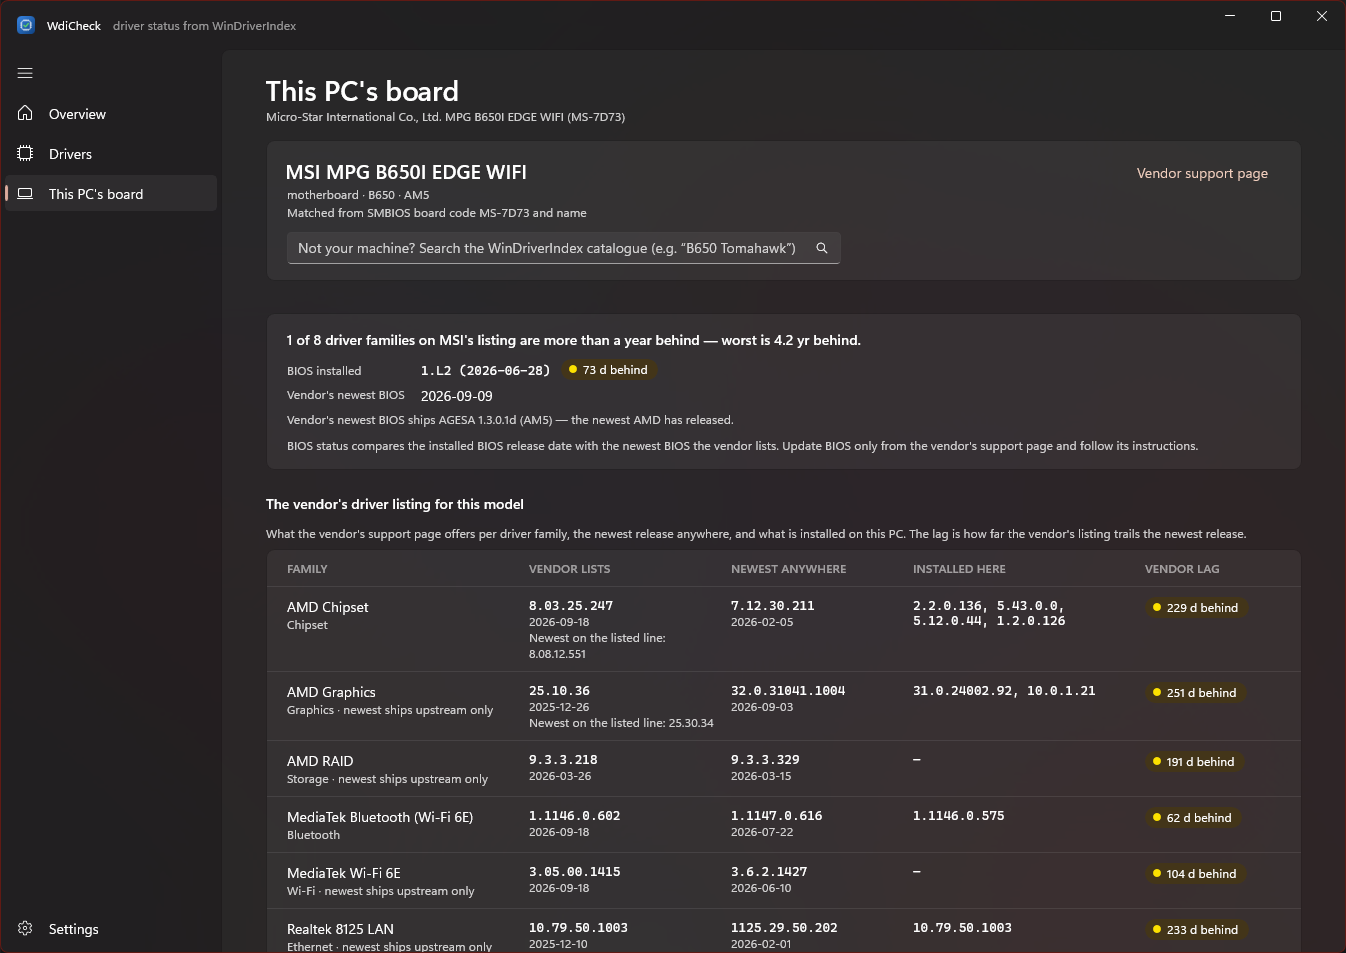
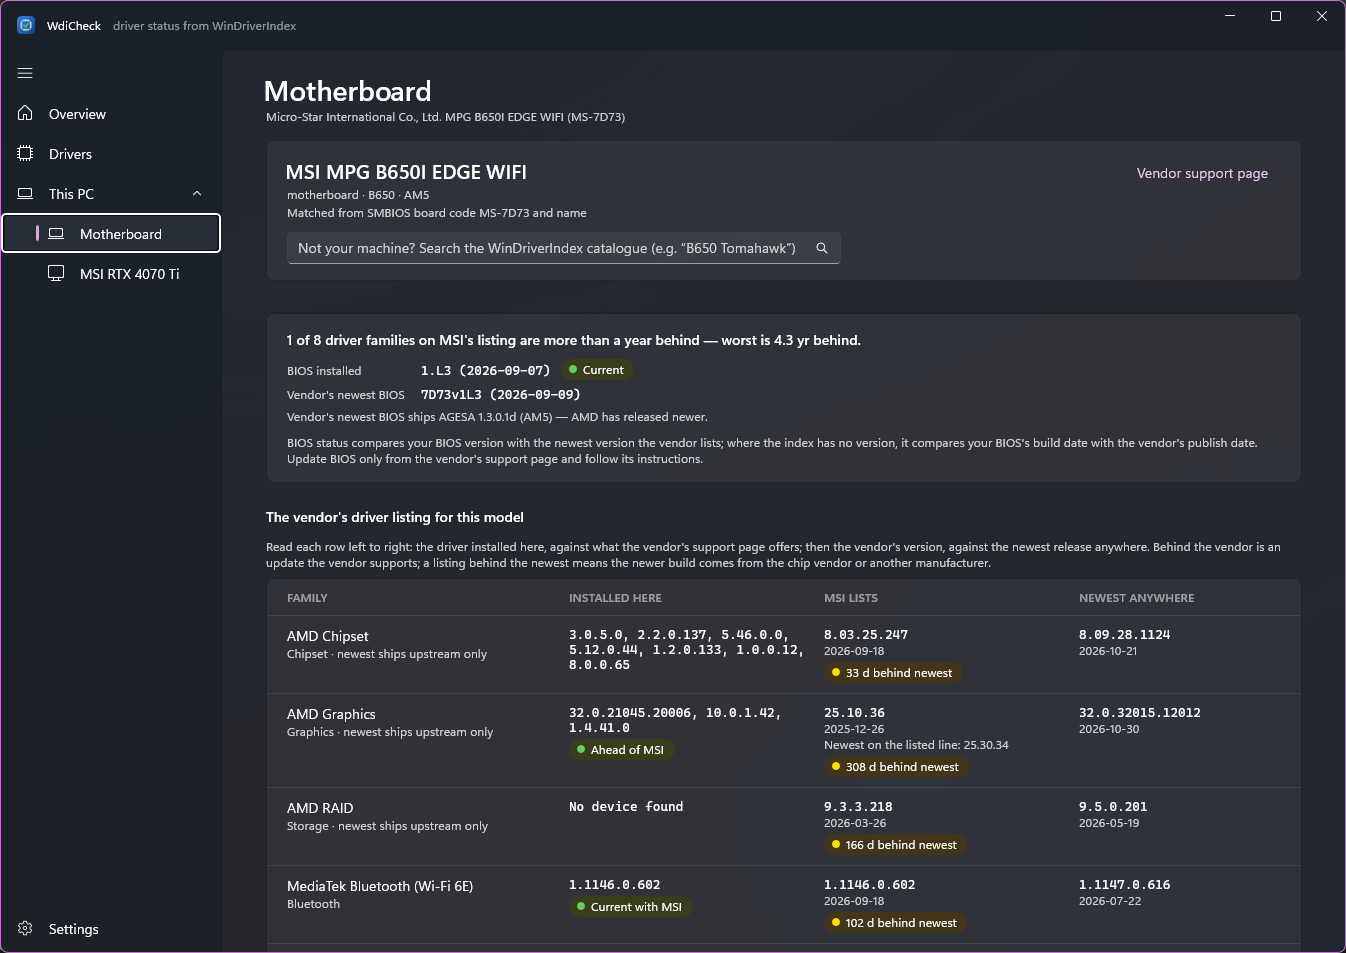
New screenshots; card page column no longer shifts right
The card page's column took its content's natural width and was centred,
so at wider windows everything shifted right and was clipped. Its width
is now pinned to the viewport, as the listing table already does.

Screenshots: overview, drivers and board retaken for the vendor
comparison, and a new one for the graphics card page.

diff --git a/src/WdiCheck.App/Views/CardPage.xaml b/src/WdiCheck.App/Views/CardPage.xaml
@@ -7,8 +7,10 @@
     xmlns:api="using:WdiCheck.Core.Api"
     xmlns:views="using:WdiCheck.App.Views">
 
-    <ScrollViewer>
-        <StackPanel MaxWidth="1100" Padding="32,20,32,40" Spacing="16">
+    <!-- The column's width is pinned to the viewport (code-behind): left to itself it took its content's natural width
+         (~840 px), was centred, and its full-width children spilled off the right edge. -->
+    <ScrollViewer SizeChanged="Scroller_SizeChanged">
+        <StackPanel x:Name="Column" MaxWidth="1100" Padding="32,20,32,40" Spacing="16">
             <StackPanel>
                 <TextBlock Text="Graphics card" Style="{StaticResource TitleTextBlockStyle}" />
                 <TextBlock Text="{x:Bind Card.IdText, FallbackValue=''}" Style="{StaticResource MutedTextStyle}" IsTextSelectionEnabled="True" />

diff --git a/src/WdiCheck.App/Views/CardPage.xaml.cs b/src/WdiCheck.App/Views/CardPage.xaml.cs
@@ -39,6 +39,9 @@ public sealed partial class CardPage : Page
             Bindings.Update();
     }
 
+    private void Scroller_SizeChanged(object sender, SizeChangedEventArgs e) =>
+        Column.Width = Math.Min(Column.MaxWidth, e.NewSize.Width);
+
     private void CardSearch_TextChanged(AutoSuggestBox sender, AutoSuggestBoxTextChangedEventArgs args)
     {
         if (args.Reason == AutoSuggestionBoxTextChangeReason.UserInput)

diff --git a/README.md b/README.md
@@ -11,7 +11,7 @@ support listing for it, including BIOS currency.
 
 WdiCheck only reads. It never downloads or installs drivers; links go to the listing's own page.
 
-![WdiCheck overview: driver status counts, the identified motherboard with its BIOS status, and the drivers that need attention](doc/images/overview.png)
+![WdiCheck overview: driver status counts, Windows Update's offers, and the identified motherboard with its BIOS status, processor and GPUs, each against MSI's listing and the newest release](doc/images/overview.png)
 
 ## What you see
 
@@ -37,15 +37,22 @@ WdiCheck only reads. It never downloads or installs drivers; links go to the lis
 ### Screenshots
 
 **Drivers**: each device with its installed and newest version. The detail pane shows how the
-driver was matched (here, the installed `rt640x64.inf`), the release it's compared with, a note
-about the parallel NetAdapter line, and where to get the update.
+driver was matched (here, the installed `rt640x64.inf`), the release it's compared with, how it
+stands against the board vendor's listing, and where to get the update.
 
-![Drivers page with the Realtek 2.5GbE controller selected: installed 10.79.50.1003, newest 10.080.0407.2026, 186 days behind](doc/images/drivers.png)
+![Drivers page with the Realtek 2.5GbE controller selected: installed 10.79.50.1003, newest 10.080.50.0407, 186 days behind, and current with MSI's listing](doc/images/drivers.png)
 
 **This PC › Motherboard**: the machine identified from its SMBIOS board code, BIOS currency, and the
-vendor's driver listing next to what's installed.
+vendor's driver listing. Each row reads left to right: what's installed against MSI's version, then
+MSI's version against the newest anywhere.
 
-![Board page for an MSI MPG B650I EDGE WIFI: BIOS 73 days behind, and the vendor's per-family driver listing with an Installed here column](doc/images/board.png)
+![Board page for an MSI MPG B650I EDGE WIFI: BIOS current, and MSI's per-family driver listing with installed versions marked Current with MSI or Ahead of MSI, and how far MSI's versions are behind the newest](doc/images/board.png)
+
+**This PC › graphics card**: an add-in card identified from its PCI IDs. Here, 20 MSI cards share the
+RTX 4070 Ti's IDs, none lists a VBIOS, and MSI links to NVIDIA's driver, so the page doesn't need to
+know which one it is.
+
+![Graphics card page for an MSI RTX 4070 Ti: one of 20 MSI models, with the list of models to pick from](doc/images/card.png)
 
 ### Statuses
 
